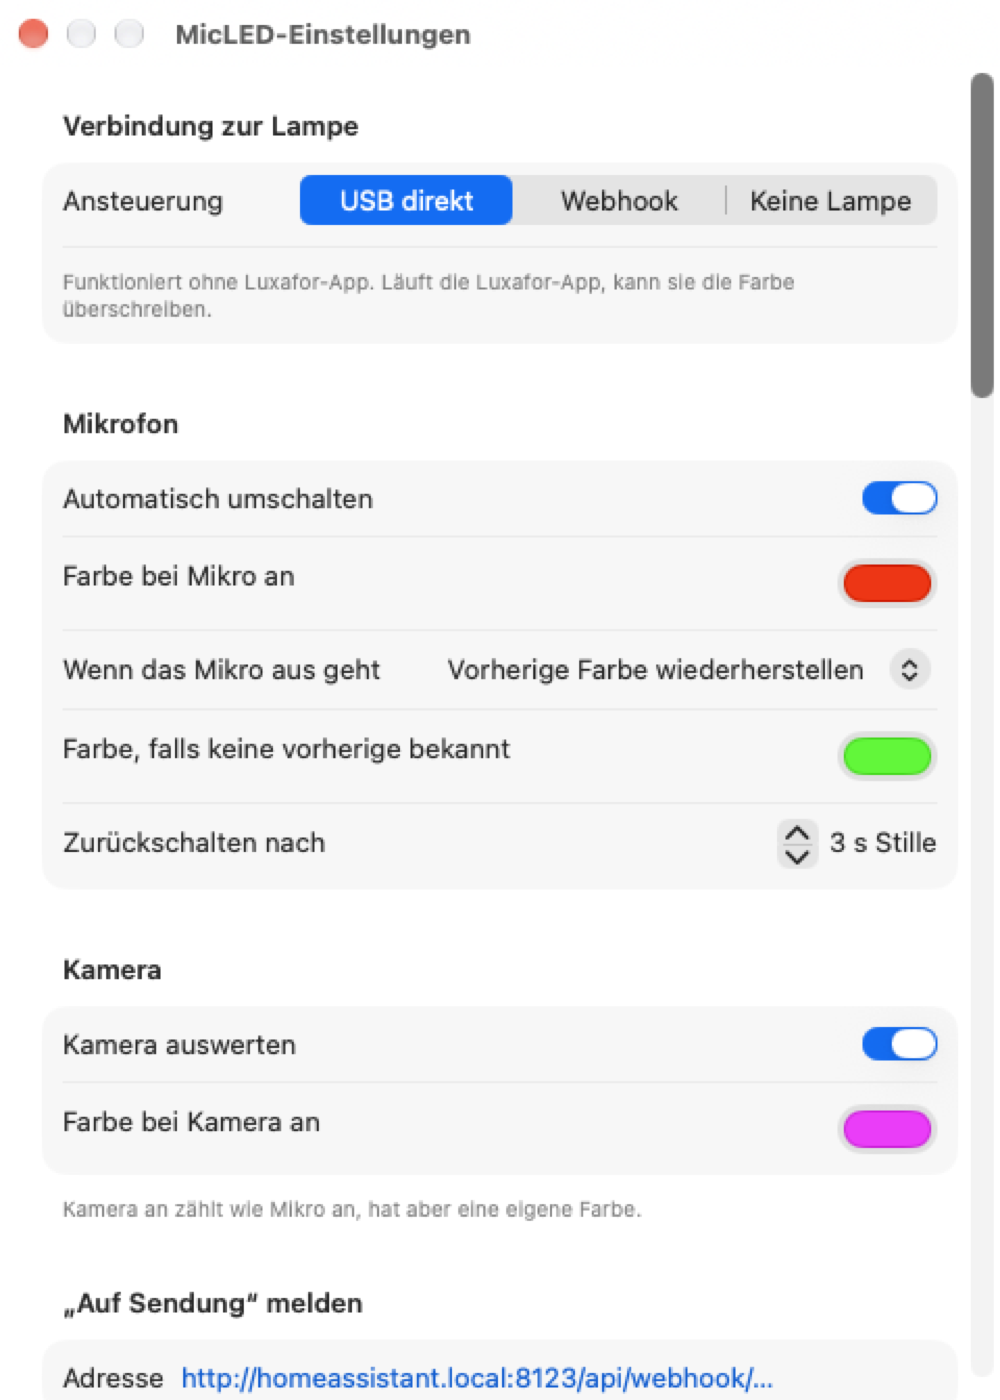
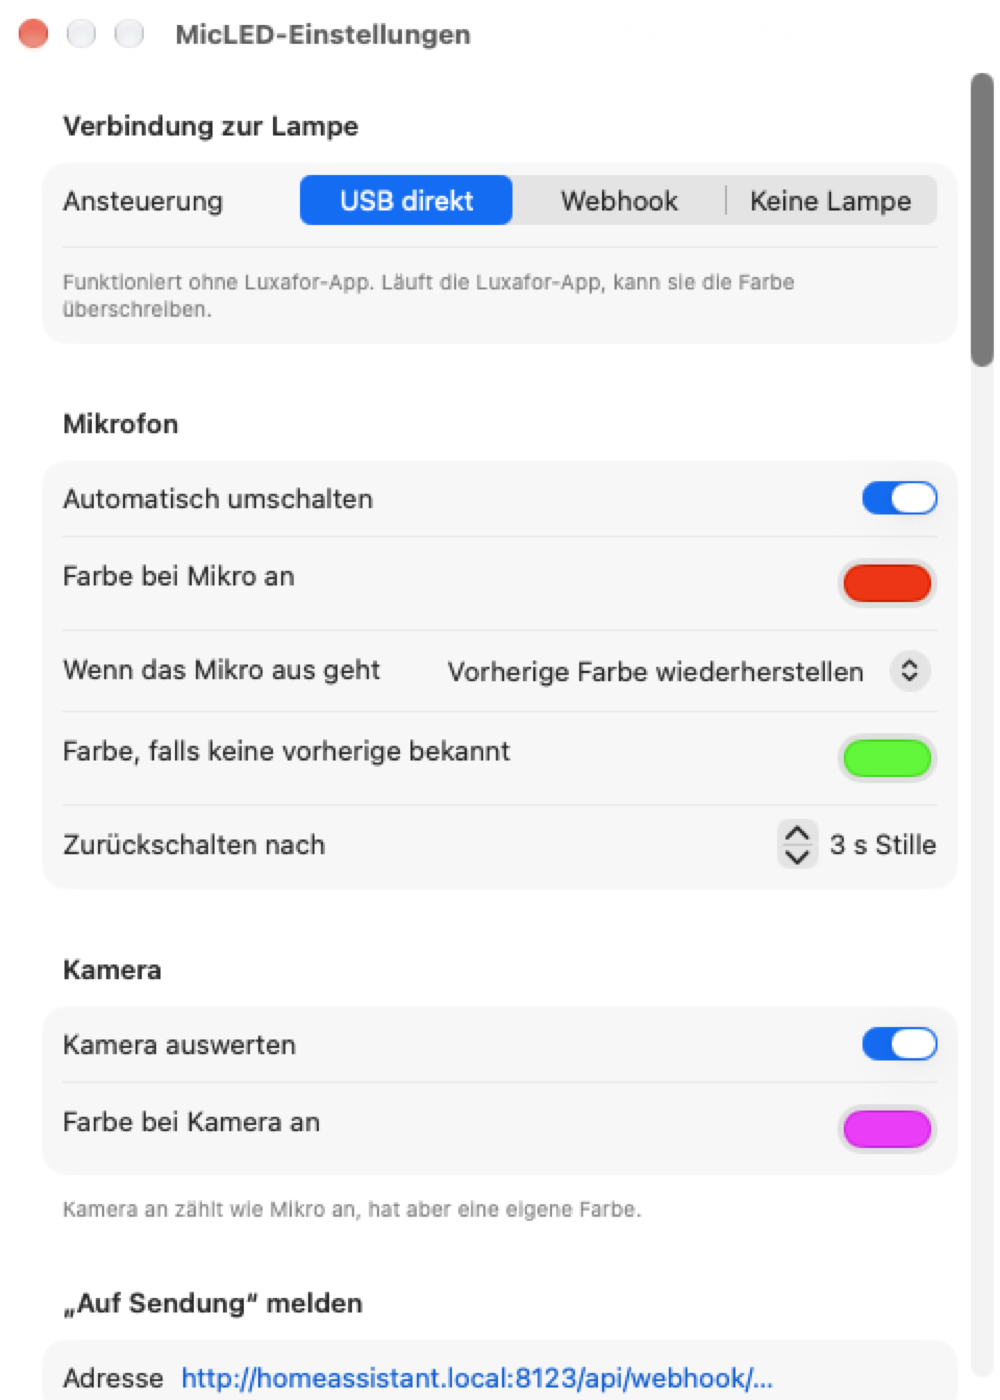
docs: describe the Philips Hue setup #18

diff --git a/README.md b/README.md
@@ -26,6 +26,7 @@
 - 📅 **Vorwarnung vor Terminen** aus den Kalendern von macOS oder direkt aus Nextcloud.
 - 💬 **Slack-Status** „Im Call“, solange du auf Sendung bist.
 - 🖼 **Pixoo 64**: „ON AIR“, Restzeit des Timers oder Fokus auf einem Divoom-Display im eigenen Netz, auch ganz ohne Lampe.
+- 💡 **Philips Hue**: eine Hue-Lampe oder ein ganzer Raum leuchtet in der Statusfarbe und kehrt danach zum Licht von vorher zurück.
 - 🏠 **Home Assistant**: „Auf Sendung“ per Webhook, z. B. für ein Türschild.
 - 📊 **Statistik**: Zeit auf Sendung je Tag, Export als CSV.
 - ⌨ **Steuerung von außen** über `micled://`-Adressen, Kurzbefehle und das Stream Deck.
@@ -133,6 +134,21 @@ Danach, beim Ausschalten und beim Beenden von MicLED läuft auf dem Display wied
 
 Ist das Display nicht erreichbar, steht ein Fehler im Menü und MicLED versucht es alle 30 Sekunden erneut. Die Lampe schaltet trotzdem sofort.
 
+## Philips Hue
+
+Eine Hue-Lampe, etwa vor der Tür, oder alle Lampen eines Raums zeigen den Status zusätzlich zur Lampe oder statt ihr. MicLED spricht dafür direkt mit der Hue Bridge im eigenen Netz, ohne Cloud und ohne Hue-Konto.
+
+Die Lampe leuchtet auf Sendung in der Mikro-, Kamera- oder Programmfarbe, beim Konzentrations-Timer und bei Fokus in deren Farbe, abends entsprechend gedimmt. Danach, beim Ausschalten und beim Beenden von MicLED hat jede Lampe wieder An/Aus, Farbe und Helligkeit von vorher. Was du während eines Calls in der Hue-App änderst, überschreibt MicLED danach mit dem Zustand von vor dem Call.
+
+1. In der Hue-App die IP-Adresse der Bridge nachsehen (Einstellungen › Bridges › Bridge › IP-Adresse) und ihr im Router eine **feste IP-Adresse** geben.
+2. In MicLED unter Einstellungen › Philips Hue „Status auf einer Hue-Lampe zeigen“ einschalten und die Adresse eintragen.
+3. Den runden Knopf auf der Bridge drücken und innerhalb von 30 Sekunden „Koppeln“ wählen. Es erscheint „Gekoppelt ✓“. Der App-Schlüssel liegt im Schlüsselbund.
+4. Unter „Lampe“ einen Raum („Raum: …“) oder eine einzelne Lampe wählen. Bei einem Raum werden alle Lampen darin geschaltet; das Zurückstellen dauert bei vielen Lampen ein bis zwei Sekunden.
+
+Beim Koppeln merkt sich MicLED das Zertifikat der Bridge und spricht danach nur mit genau dieser. Wird die Bridge ausgetauscht oder zurückgesetzt, steht im Menü „Zertifikat der Bridge hat sich geändert, bitte neu koppeln“; dann Schritt 3 wiederholen. Eine neue Adresse löscht die Kopplung ebenfalls.
+
+Ist die Bridge nicht erreichbar, steht ein Fehler im Menü und MicLED versucht es alle 30 Sekunden erneut. Lampe und Pixoo schalten trotzdem sofort. Wie beim Pixoo braucht MicLED den Zugriff auf das **lokale Netzwerk**.
+
 ## Termine aus Nextcloud
 
 Für die Vorwarnung gibt es zwei Wege:
@@ -182,12 +198,15 @@ cargo run -p micled-cli -- watch --camera ff00ff --on-air-url http://…   # ode
 cargo run -p micled-cli -- --webhook <ID> set gruen
 MICLED_NEXTCLOUD_PASSWORD=<app-passwort> cargo run -p micled-cli -- nextcloud https://cloud.example.org <benutzer>
 cargo run -p micled-cli -- pixoo 192.168.1.50  # Pixoo prüfen: 5 s „ON AIR“, dann zurück zum vorherigen Kanal
+cargo run -p micled-cli -- hue pair 192.168.1.20  # nach dem Druck auf den Bridge-Knopf: Schlüssel und Fingerabdruck
+MICLED_HUE_KEY=<schlüssel> MICLED_HUE_FINGERPRINT=<fingerabdruck> \
+  cargo run -p micled-cli -- hue test 192.168.1.20 <lampen-id> [--room]   # 5 s Rot, dann zurück
 ```
 
 ## Aufbau
 
 ```
-crates/micled-core   Lampe (USB/Webhook), Mikrofon und Kamera, Logik, Statusdatei, Nextcloud-Kalender, Bilder für den Pixoo 64
+crates/micled-core   Lampe (USB/Webhook), Mikrofon und Kamera, Logik, Statusdatei, Nextcloud-Kalender, Bilder für den Pixoo 64, Hue Bridge
 crates/micled-cli    Kommandozeile `micled`
 crates/micled-ffi    UniFFI-Schicht für Swift
 apps/MicLED          SwiftUI-Menüleisten-App, project.yml für xcodegen

diff --git a/CHANGELOG.md b/CHANGELOG.md
@@ -7,6 +7,7 @@ Alle nennenswerten Änderungen an MicLED. Format nach [Keep a Changelog](https:/
 ### Hinzugefügt
 
 - Divoom Pixoo 64 als Display: zeigt „ON AIR“ mit Mikro- oder Kamerasymbol, die Restminuten des Timers oder „FOKUS“ und kehrt danach zum vorherigen Kanal zurück. Einstellungen mit „Verbindung prüfen“, Kommandozeile `micled pixoo <adresse>`.
+- Philips Hue über die Hue Bridge: eine Lampe oder ein Raum zeigt die Farbe für Call, Timer und Fokus und bekommt danach An/Aus, Farbe und Helligkeit von vorher zurück. Koppeln per Knopf an der Bridge, App-Schlüssel im Schlüsselbund, Zertifikat der Bridge wird beim Koppeln festgehalten. Kommandozeile `micled hue pair` und `micled hue test`.
 - „Keine Lampe“ in den Einstellungen: MicLED zeigt den Status dann nur auf dem Display, in Slack und am Webhook.
 
 ## [0.1.0] - 2026-11-05
